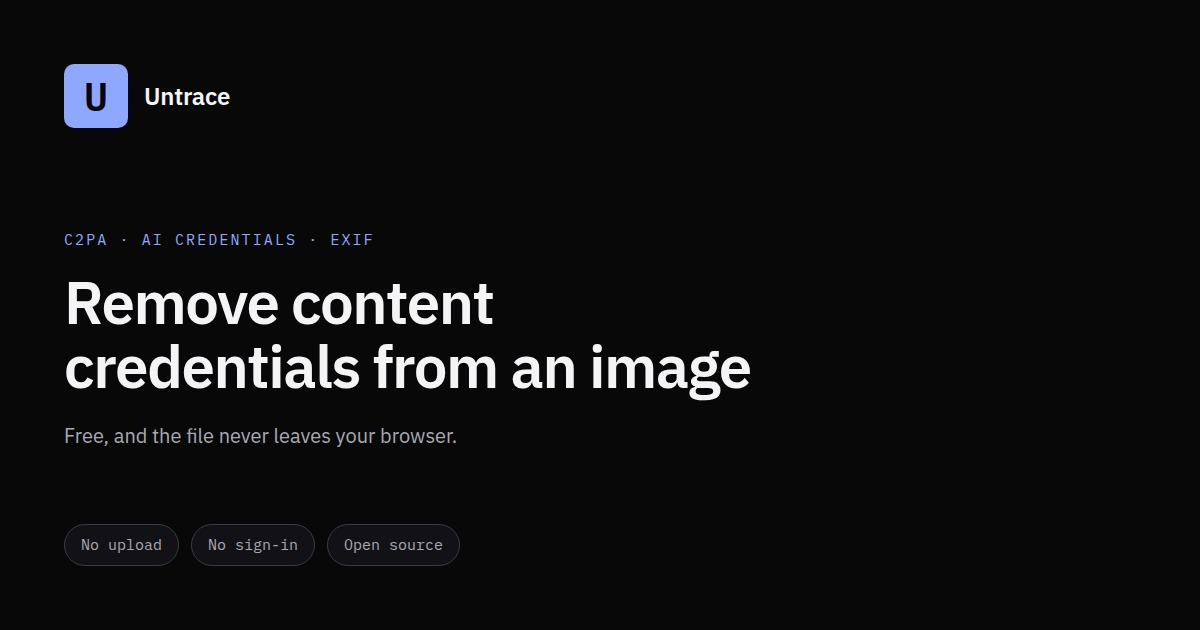
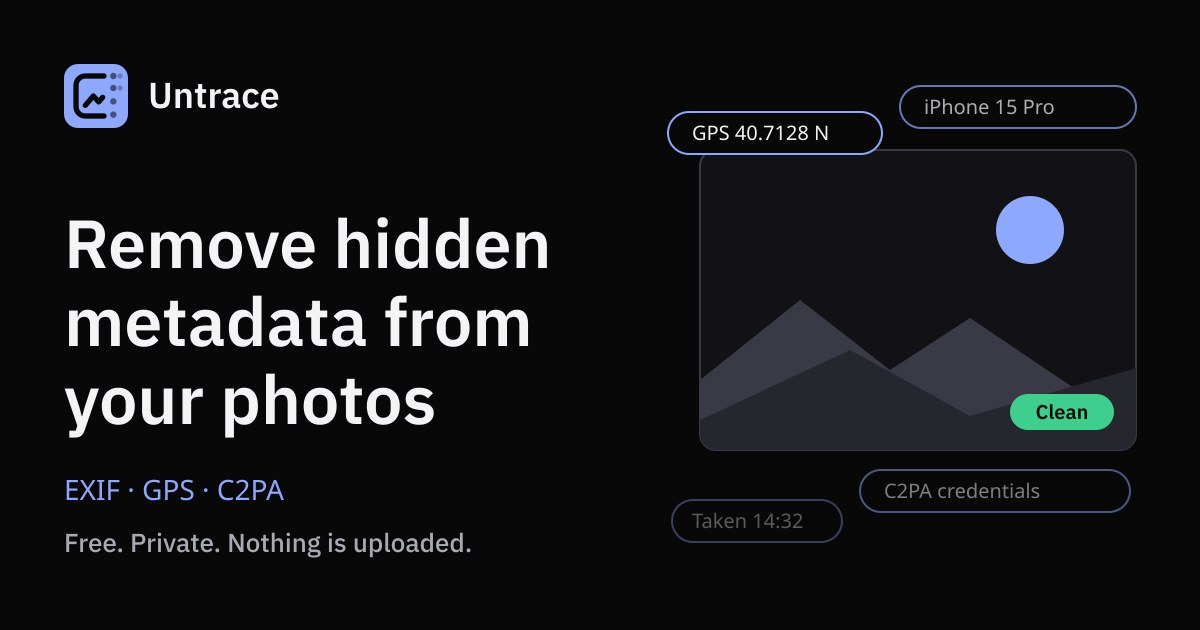
Add social preview image and iPhone/Android EXIF guides
New 1200x630 preview card with the new logo, two high-intent guides,
cross-linked related lists, updated sitemap, footer and guides index.

diff --git a/guides/remove-exif-data-android/index.html b/guides/remove-exif-data-android/index.html
@@ -1,0 +1,120 @@
+<!doctype html>
+<html lang="en">
+  <head>
+    <meta charset="UTF-8" />
+    <meta name="viewport" content="width=device-width, initial-scale=1, viewport-fit=cover" />
+    <title>How to remove EXIF and location data from photos on Android | Untrace</title>
+    <meta name="description" content="Remove EXIF and GPS data from Android photos: switch off location tags, remove location in Google Photos or Samsung Gallery, and clean the whole file in your browser." />
+    <link rel="canonical" href="https://untrace.realbrain.cc/guides/remove-exif-data-android/" />
+    <meta name="robots" content="index, follow, max-image-preview:large, max-snippet:-1" />
+    <meta name="color-scheme" content="dark light" />
+    <meta name="theme-color" content="#080808" media="(prefers-color-scheme: dark)" />
+    <meta name="theme-color" content="#F7F7F9" media="(prefers-color-scheme: light)" />
+    <script>(function(){try{var s=localStorage.getItem("untrace-theme");var t=s==="light"||s==="dark"?s:window.matchMedia("(prefers-color-scheme: light)").matches?"light":"dark";if(t==="light")document.documentElement.setAttribute("data-theme","light")}catch(e){}})();</script>
+    <link rel="icon" type="image/svg+xml" href="/favicon.svg" />
+    <link rel="apple-touch-icon" href="/apple-touch-icon.png" />
+    <link rel="manifest" href="/manifest.json" />
+    <link rel="preconnect" href="https://fonts.googleapis.com" />
+    <link rel="preconnect" href="https://fonts.gstatic.com" crossorigin />
+    <link rel="stylesheet" href="https://fonts.googleapis.com/css2?family=IBM+Plex+Mono:wght@400;500;600&amp;family=IBM+Plex+Sans:wght@400;500;600&amp;display=swap" />
+    <meta property="og:type" content="article" />
+    <meta property="og:site_name" content="Untrace" />
+    <meta property="og:url" content="https://untrace.realbrain.cc/guides/remove-exif-data-android/" />
+    <meta property="og:title" content="How to remove EXIF and location data from photos on Android" />
+    <meta property="og:description" content="Remove EXIF and GPS data from Android photos: switch off location tags, remove location in Google Photos or Samsung Gallery, and clean the whole file in your browser." />
+    <meta property="og:image" content="https://untrace.realbrain.cc/thumb.jpg" />
+    <meta name="twitter:card" content="summary_large_image" />
+    <script type="application/ld+json">{
+  "@context": "https://schema.org",
+  "@graph": [
+    {
+      "@type": "Article",
+      "headline": "How to remove EXIF and location data from photos on Android",
+      "description": "Remove EXIF and GPS data from Android photos: switch off location tags, remove location in Google Photos or Samsung Gallery, and clean the whole file in your browser.",
+      "datePublished": "2026-10-20",
+      "dateModified": "2026-10-20",
+      "inLanguage": "en",
+      "mainEntityOfPage": "https://untrace.realbrain.cc/guides/remove-exif-data-android/",
+      "image": "https://untrace.realbrain.cc/thumb.jpg",
+      "author": {
+        "@type": "Organization",
+        "name": "Untrace",
+        "url": "https://untrace.realbrain.cc/"
+      },
+      "publisher": {
+        "@type": "Organization",
+        "name": "Untrace",
+        "logo": {
+          "@type": "ImageObject",
+          "url": "https://untrace.realbrain.cc/logo-512.png"
+        }
+      }
+    },
+    {
+      "@type": "BreadcrumbList",
+      "itemListElement": [
+        {
+          "@type": "ListItem",
+          "position": 1,
+          "name": "Untrace",
+          "item": "https://untrace.realbrain.cc/"
+        },
+        {
+          "@type": "ListItem",
+          "position": 2,
+          "name": "Guides",
+          "item": "https://untrace.realbrain.cc/guides/"
+        },
+        {
+          "@type": "ListItem",
+          "position": 3,
+          "name": "How to remove EXIF and location data from photos on Android",
+          "item": "https://untrace.realbrain.cc/guides/remove-exif-data-android/"
+        }
+      ]
+    }
+  ]
+}</script>
+  </head>
+  <body>
+    <header class="topbar">
+      <div class="wrap inner">
+        <a class="wordmark" href="/" aria-label="Untrace home"><span class="r-mark" aria-hidden="true"><svg viewBox="0 0 24 24" width="18" height="18" fill="none" stroke="currentColor" stroke-width="2" stroke-linecap="round" stroke-linejoin="round" focusable="false"><path d="M15 4.5H8A3.5 3.5 0 0 0 4.5 8v8A3.5 3.5 0 0 0 8 19.5h7"/><path d="M18.5 4.5v.01M18.5 9v.01M18.5 14v.01M18.5 19v.01" stroke-width="2.4" opacity="0.55"/><path d="M21 4.5v.01M21 9v.01" stroke-width="2" opacity="0.28"/><path d="M8 15.5 11 12l2 2.2 1.5-1.7"/></svg></span><span>Untrace</span></a>
+        <nav class="actions" aria-label="Site"><a class="btn btn-ghost" href="/guides/">Guides</a></nav>
+      </div>
+    </header>
+    <main class="guide">
+      <div class="wrap">
+        <ol class="crumbs"><li><a href="/">Untrace</a></li><li><a href="/guides/">Guides</a></li><li aria-current="page">How to remove EXIF and location data from photos on Android</li></ol>
+        <article>
+          <h1>How to remove EXIF and location data from photos on Android</h1>
+          <p class="lead">Android phones usually write GPS coordinates, the device model and a timestamp into every photo. The steps differ between manufacturers, so this guide covers the common ones and a method that works on any phone.</p>
+          <p class="meta">Updated 2026-10-20 · Written by the Untrace team</p>
+<h2>Stop adding location to new photos</h2>
+<p>Open your camera app, go to its settings and switch off Location tags (the label can vary by manufacturer). New photos will stop carrying coordinates. Existing photos are unchanged.</p>
+<h2>Remove location from one photo</h2>
+<ul>
+<li><strong>Google Photos:</strong> open the photo, swipe up for details, tap the pencil beside the location and choose Remove location.</li>
+<li><strong>Samsung Gallery:</strong> open the photo, tap the More or Details option, edit the location and remove it.</li>
+</ul>
+<p>These steps remove location only. The camera model and capture time stay in the file.</p>
+<h2>Remove location when you share</h2>
+<p>Many Android versions offer a switch to remove location data on the share screen, for example in Samsung's share sheet. Options differ by phone and app, so check the share screen before you send. If you do not see one, clean the file first.</p>
+<h2>Remove all metadata with Untrace</h2>
+<ol>
+<li>Open <a href="/#tool">Untrace</a> in Chrome and choose the photo.</li>
+<li>Check what it found, then choose Clean image.</li>
+<li>Download the cleaned copy and share that one.</li>
+</ol>
+<p>The photo never leaves your phone, because Untrace has no server to receive it. For a whole album, add up to 50 photos at once and take them as one ZIP.</p>
+<div class="callout"><p><strong>Check it worked.</strong> Add the cleaned copy to Untrace again. It should report that no metadata was found.</p></div>
+<div class="cta"><p><strong>See what your own photo is hiding.</strong> Untrace lists every metadata block, then removes it, all inside your browser.</p><a class="btn btn-primary" href="/#tool">Scan a photo</a></div>
+          <h2>Common questions</h2>
+          <h3>Will cleaning change how the photo looks?</h3><p>No. The pixels stay the same. The file is re-encoded, so its size can change a little.</p><h3>Do messaging apps remove EXIF data?</h3><p>Some do when you send a photo as an image, but sending it as a document or file usually keeps everything. Clean the file yourself if it matters.</p>
+          <nav class="related" aria-label="Related guides"><h2>Keep reading</h2><ul><li><a href="/guides/remove-gps-from-photo/">How to remove GPS location from a photo</a></li><li><a href="/guides/remove-exif-data-iphone/">How to remove EXIF data from photos on iPhone</a></li><li><a href="/guides/what-is-exif-data/">What is EXIF data?</a></li><li><a href="/guides/what-is-c2pa/">What is C2PA and how do Content Credentials work?</a></li></ul></nav>
+        </article>
+      </div>
+    </main>
+    <script type="module" src="/src/guide.js"></script>
+  </body>
+</html>

diff --git a/guides/remove-exif-data-iphone/index.html b/guides/remove-exif-data-iphone/index.html
@@ -1,0 +1,121 @@
+<!doctype html>
+<html lang="en">
+  <head>
+    <meta charset="UTF-8" />
+    <meta name="viewport" content="width=device-width, initial-scale=1, viewport-fit=cover" />
+    <title>How to remove EXIF data from photos on iPhone | Untrace</title>
+    <meta name="description" content="Remove location and other EXIF data from iPhone photos: turn off camera location, strip it per photo or per share, and clean the whole file in your browser." />
+    <link rel="canonical" href="https://untrace.realbrain.cc/guides/remove-exif-data-iphone/" />
+    <meta name="robots" content="index, follow, max-image-preview:large, max-snippet:-1" />
+    <meta name="color-scheme" content="dark light" />
+    <meta name="theme-color" content="#080808" media="(prefers-color-scheme: dark)" />
+    <meta name="theme-color" content="#F7F7F9" media="(prefers-color-scheme: light)" />
+    <script>(function(){try{var s=localStorage.getItem("untrace-theme");var t=s==="light"||s==="dark"?s:window.matchMedia("(prefers-color-scheme: light)").matches?"light":"dark";if(t==="light")document.documentElement.setAttribute("data-theme","light")}catch(e){}})();</script>
+    <link rel="icon" type="image/svg+xml" href="/favicon.svg" />
+    <link rel="apple-touch-icon" href="/apple-touch-icon.png" />
+    <link rel="manifest" href="/manifest.json" />
+    <link rel="preconnect" href="https://fonts.googleapis.com" />
+    <link rel="preconnect" href="https://fonts.gstatic.com" crossorigin />
+    <link rel="stylesheet" href="https://fonts.googleapis.com/css2?family=IBM+Plex+Mono:wght@400;500;600&amp;family=IBM+Plex+Sans:wght@400;500;600&amp;display=swap" />
+    <meta property="og:type" content="article" />
+    <meta property="og:site_name" content="Untrace" />
+    <meta property="og:url" content="https://untrace.realbrain.cc/guides/remove-exif-data-iphone/" />
+    <meta property="og:title" content="How to remove EXIF data from photos on iPhone" />
+    <meta property="og:description" content="Remove location and other EXIF data from iPhone photos: turn off camera location, strip it per photo or per share, and clean the whole file in your browser." />
+    <meta property="og:image" content="https://untrace.realbrain.cc/thumb.jpg" />
+    <meta name="twitter:card" content="summary_large_image" />
+    <script type="application/ld+json">{
+  "@context": "https://schema.org",
+  "@graph": [
+    {
+      "@type": "Article",
+      "headline": "How to remove EXIF data from photos on iPhone",
+      "description": "Remove location and other EXIF data from iPhone photos: turn off camera location, strip it per photo or per share, and clean the whole file in your browser.",
+      "datePublished": "2026-10-20",
+      "dateModified": "2026-10-20",
+      "inLanguage": "en",
+      "mainEntityOfPage": "https://untrace.realbrain.cc/guides/remove-exif-data-iphone/",
+      "image": "https://untrace.realbrain.cc/thumb.jpg",
+      "author": {
+        "@type": "Organization",
+        "name": "Untrace",
+        "url": "https://untrace.realbrain.cc/"
+      },
+      "publisher": {
+        "@type": "Organization",
+        "name": "Untrace",
+        "logo": {
+          "@type": "ImageObject",
+          "url": "https://untrace.realbrain.cc/logo-512.png"
+        }
+      }
+    },
+    {
+      "@type": "BreadcrumbList",
+      "itemListElement": [
+        {
+          "@type": "ListItem",
+          "position": 1,
+          "name": "Untrace",
+          "item": "https://untrace.realbrain.cc/"
+        },
+        {
+          "@type": "ListItem",
+          "position": 2,
+          "name": "Guides",
+          "item": "https://untrace.realbrain.cc/guides/"
+        },
+        {
+          "@type": "ListItem",
+          "position": 3,
+          "name": "How to remove EXIF data from photos on iPhone",
+          "item": "https://untrace.realbrain.cc/guides/remove-exif-data-iphone/"
+        }
+      ]
+    }
+  ]
+}</script>
+  </head>
+  <body>
+    <header class="topbar">
+      <div class="wrap inner">
+        <a class="wordmark" href="/" aria-label="Untrace home"><span class="r-mark" aria-hidden="true"><svg viewBox="0 0 24 24" width="18" height="18" fill="none" stroke="currentColor" stroke-width="2" stroke-linecap="round" stroke-linejoin="round" focusable="false"><path d="M15 4.5H8A3.5 3.5 0 0 0 4.5 8v8A3.5 3.5 0 0 0 8 19.5h7"/><path d="M18.5 4.5v.01M18.5 9v.01M18.5 14v.01M18.5 19v.01" stroke-width="2.4" opacity="0.55"/><path d="M21 4.5v.01M21 9v.01" stroke-width="2" opacity="0.28"/><path d="M8 15.5 11 12l2 2.2 1.5-1.7"/></svg></span><span>Untrace</span></a>
+        <nav class="actions" aria-label="Site"><a class="btn btn-ghost" href="/guides/">Guides</a></nav>
+      </div>
+    </header>
+    <main class="guide">
+      <div class="wrap">
+        <ol class="crumbs"><li><a href="/">Untrace</a></li><li><a href="/guides/">Guides</a></li><li aria-current="page">How to remove EXIF data from photos on iPhone</li></ol>
+        <article>
+          <h1>How to remove EXIF data from photos on iPhone</h1>
+          <p class="lead">iPhone photos carry their location, the device model and the time they were taken. iOS lets you remove some of that, but not all of it. This guide covers each option and what it leaves behind.</p>
+          <p class="meta">Updated 2026-10-20 · Written by the Untrace team</p>
+<h2>Stop adding location to new photos</h2>
+<p>Open Settings, then Privacy &amp; Security, Location Services, Camera, and choose Never. New photos will no longer carry GPS coordinates. Photos already in your library keep theirs.</p>
+<h2>Remove location from one photo</h2>
+<ol>
+<li>Open the photo in Photos and tap the info button, or swipe up.</li>
+<li>Tap Adjust next to the location line.</li>
+<li>Choose No Location.</li>
+</ol>
+<p>This removes the coordinates from the photo in your library. Other details, such as the device model and capture time, stay.</p>
+<h2>Remove location only when you share</h2>
+<p>In the share sheet, tap Options at the top and turn Location off before you send. Your original keeps its location, and the copy you share does not. This setting covers location, not the full EXIF block.</p>
+<h2>Remove all metadata with Untrace</h2>
+<ol>
+<li>Open <a href="/#tool">Untrace</a> in Safari and choose the photo from your library.</li>
+<li>Review what it found, then choose Clean image.</li>
+<li>Save the cleaned copy to Photos or Files.</li>
+</ol>
+<p>Nothing is uploaded: the photo is read and rewritten in the browser on your phone. To clean many photos together, add up to 50 at once and download them as one ZIP.</p>
+<div class="callout"><p><strong>HEIC photos.</strong> iPhones save HEIC by default. Safari can decode it, but some other browsers cannot. If a photo will not open, switch Settings, Camera, Formats to Most Compatible so new photos are saved as JPEG.</p></div>
+<div class="cta"><p><strong>See what your own photo is hiding.</strong> Untrace lists every metadata block, then removes it, all inside your browser.</p><a class="btn btn-primary" href="/#tool">Scan a photo</a></div>
+          <h2>Common questions</h2>
+          <h3>Does a screenshot remove EXIF data?</h3><p>A screenshot is a new file without the original's camera details, and it normally has no GPS coordinates. It can still record the device and time.</p><h3>Does AirDrop or Messages keep location?</h3><p>They can. Sharing the original file usually includes its metadata, so use the Location switch in Options or clean the file first.</p>
+          <nav class="related" aria-label="Related guides"><h2>Keep reading</h2><ul><li><a href="/guides/remove-gps-from-photo/">How to remove GPS location from a photo</a></li><li><a href="/guides/remove-exif-data-android/">How to remove EXIF and location data from photos on Android</a></li><li><a href="/guides/what-is-exif-data/">What is EXIF data?</a></li><li><a href="/guides/what-is-c2pa/">What is C2PA and how do Content Credentials work?</a></li></ul></nav>
+        </article>
+      </div>
+    </main>
+    <script type="module" src="/src/guide.js"></script>
+  </body>
+</html>

diff --git a/guides/index.html b/guides/index.html
@@ -38,7 +38,7 @@
           <h1>Photo privacy guides</h1>
           <p class="lead">Plain-language explanations of the hidden data inside photos, and how to remove it.</p>
         </article>
-        <div class="index-list"><a class="card" href="/guides/remove-gps-from-photo/"><strong>How to remove GPS location from a photo</strong><span>Most phones save the exact latitude and longitude of every photo they take. If the file keeps that data when you share it, anyone who receives it can read where you were.</span></a><a class="card" href="/guides/what-is-exif-data/"><strong>What is EXIF data?</strong><span>EXIF (Exchangeable Image File Format) is a block of hidden information that cameras and phones write into a photo file. It travels with the picture unless something removes it.</span></a><a class="card" href="/guides/what-is-c2pa/"><strong>What is C2PA and how do Content Credentials work?</strong><span>C2PA is an open standard from the Coalition for Content Provenance and Authenticity. It lets software attach a cryptographically signed record to an image describing where it came from and how it was changed.</span></a></div>
+        <div class="index-list"><a class="card" href="/guides/remove-gps-from-photo/"><strong>How to remove GPS location from a photo</strong><span>Most phones save the exact latitude and longitude of every photo they take. If the file keeps that data when you share it, anyone who receives it can read where you were.</span></a><a class="card" href="/guides/remove-exif-data-iphone/"><strong>How to remove EXIF data from photos on iPhone</strong><span>iPhone photos carry their location, the device model and the time they were taken. iOS lets you remove some of that, but not all of it. This guide covers each option and what it leaves behind.</span></a><a class="card" href="/guides/remove-exif-data-android/"><strong>How to remove EXIF and location data from photos on Android</strong><span>Android phones usually write GPS coordinates, the device model and a timestamp into every photo. The steps differ between manufacturers, so this guide covers the common ones and a method that works on any phone.</span></a><a class="card" href="/guides/what-is-exif-data/"><strong>What is EXIF data?</strong><span>EXIF (Exchangeable Image File Format) is a block of hidden information that cameras and phones write into a photo file. It travels with the picture unless something removes it.</span></a><a class="card" href="/guides/what-is-c2pa/"><strong>What is C2PA and how do Content Credentials work?</strong><span>C2PA is an open standard from the Coalition for Content Provenance and Authenticity. It lets software attach a cryptographically signed record to an image describing where it came from and how it was changed.</span></a></div>
       </div>
     </main>
     <script type="module" src="/src/guide.js"></script>

diff --git a/guides/what-is-exif-data/index.html b/guides/what-is-exif-data/index.html
@@ -110,7 +110,7 @@
 <div class="cta"><p><strong>See what your own photo is hiding.</strong> Untrace lists every metadata block, then removes it, all inside your browser.</p><a class="btn btn-primary" href="/#tool">Scan a photo</a></div>
           <h2>Common questions</h2>
           <h3>Is EXIF data bad?</h3><p>No. It is useful for organising your own photos. It becomes a privacy problem only when you share the file with people who do not need it.</p><h3>Do screenshots have EXIF data?</h3><p>They usually carry far less, often no location, but they can still include device and time information.</p>
-          <nav class="related" aria-label="Related guides"><h2>Keep reading</h2><ul><li><a href="/guides/remove-gps-from-photo/">How to remove GPS location from a photo</a></li><li><a href="/guides/what-is-c2pa/">What is C2PA and how do Content Credentials work?</a></li></ul></nav>
+          <nav class="related" aria-label="Related guides"><h2>Keep reading</h2><ul><li><a href="/guides/remove-gps-from-photo/">How to remove GPS location from a photo</a></li><li><a href="/guides/remove-exif-data-iphone/">How to remove EXIF data from photos on iPhone</a></li><li><a href="/guides/remove-exif-data-android/">How to remove EXIF and location data from photos on Android</a></li><li><a href="/guides/what-is-c2pa/">What is C2PA and how do Content Credentials work?</a></li></ul></nav>
         </article>
       </div>
     </main>

diff --git a/guides/remove-gps-from-photo/index.html b/guides/remove-gps-from-photo/index.html
@@ -114,7 +114,7 @@
 <div class="cta"><p><strong>See what your own photo is hiding.</strong> Untrace lists every metadata block, then removes it, all inside your browser.</p><a class="btn btn-primary" href="/#tool">Scan a photo</a></div>
           <h2>Common questions</h2>
           <h3>Does removing GPS data change the picture?</h3><p>The visible image stays the same. Untrace re-encodes it, so the file size and format can change slightly.</p><h3>Can someone find my location from a photo without GPS data?</h3><p>Yes, from what the picture shows, such as street signs or landmarks. Metadata removal does not hide what is visible.</p>
-          <nav class="related" aria-label="Related guides"><h2>Keep reading</h2><ul><li><a href="/guides/what-is-exif-data/">What is EXIF data?</a></li><li><a href="/guides/what-is-c2pa/">What is C2PA and how do Content Credentials work?</a></li></ul></nav>
+          <nav class="related" aria-label="Related guides"><h2>Keep reading</h2><ul><li><a href="/guides/remove-exif-data-iphone/">How to remove EXIF data from photos on iPhone</a></li><li><a href="/guides/remove-exif-data-android/">How to remove EXIF and location data from photos on Android</a></li><li><a href="/guides/what-is-exif-data/">What is EXIF data?</a></li><li><a href="/guides/what-is-c2pa/">What is C2PA and how do Content Credentials work?</a></li></ul></nav>
         </article>
       </div>
     </main>

diff --git a/guides/what-is-c2pa/index.html b/guides/what-is-c2pa/index.html
@@ -104,7 +104,7 @@
 <div class="cta"><p><strong>See what your own photo is hiding.</strong> Untrace lists every metadata block, then removes it, all inside your browser.</p><a class="btn btn-primary" href="/#tool">Scan a photo</a></div>
           <h2>Common questions</h2>
           <h3>Is C2PA the same as EXIF?</h3><p>No. EXIF records camera and location details. C2PA records a signed history of creation and edits. Untrace reads and removes both.</p><h3>Can C2PA be forged?</h3><p>The signature protects the manifest from tampering, but anyone can create a manifest with their own certificate, so trust depends on who signed it.</p>
-          <nav class="related" aria-label="Related guides"><h2>Keep reading</h2><ul><li><a href="/guides/remove-gps-from-photo/">How to remove GPS location from a photo</a></li><li><a href="/guides/what-is-exif-data/">What is EXIF data?</a></li></ul></nav>
+          <nav class="related" aria-label="Related guides"><h2>Keep reading</h2><ul><li><a href="/guides/remove-gps-from-photo/">How to remove GPS location from a photo</a></li><li><a href="/guides/remove-exif-data-iphone/">How to remove EXIF data from photos on iPhone</a></li><li><a href="/guides/remove-exif-data-android/">How to remove EXIF and location data from photos on Android</a></li><li><a href="/guides/what-is-exif-data/">What is EXIF data?</a></li></ul></nav>
         </article>
       </div>
     </main>

diff --git a/src/lib/Footer.svelte b/src/lib/Footer.svelte
@@ -34,6 +34,8 @@
         <h2>Guides</h2>
         <ul>
           <li><a href="/guides/remove-gps-from-photo/">Remove GPS from a photo</a></li>
+          <li><a href="/guides/remove-exif-data-iphone/">Remove EXIF on iPhone</a></li>
+          <li><a href="/guides/remove-exif-data-android/">Remove EXIF on Android</a></li>
           <li><a href="/guides/what-is-exif-data/">What is EXIF data?</a></li>
           <li><a href="/guides/what-is-c2pa/">What is C2PA?</a></li>
         </ul>

diff --git a/vite.config.js b/vite.config.js
@@ -2,7 +2,7 @@ import { defineConfig } from 'vite'
 import { svelte } from '@sveltejs/vite-plugin-svelte'
 import { resolve } from 'node:path'
 
-const guides = ['', 'remove-gps-from-photo', 'what-is-exif-data', 'what-is-c2pa']
+const guides = ['', 'remove-gps-from-photo', 'remove-exif-data-iphone', 'remove-exif-data-android', 'what-is-exif-data', 'what-is-c2pa']
 
 // https://vitejs.dev/config/
 export default defineConfig({
